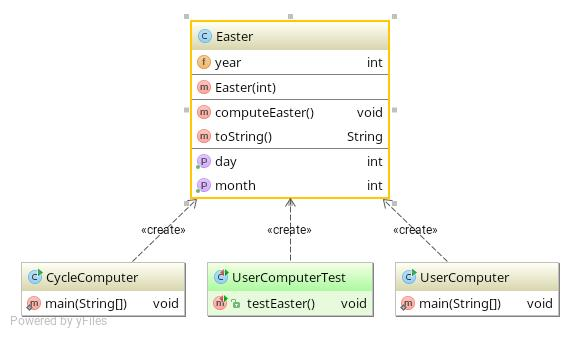
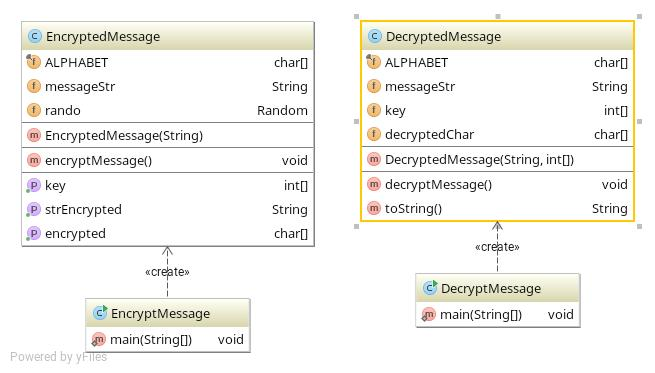
Commenting

Changed region(s): [[0.0, 0.0297, 0.9931, 0.9792]]

diff --git a/oral_exam1/S3_Computus_Hard/src/Easter.java b/oral_exam1/S3_Computus_Hard/src/Easter.java
@@ -29,7 +29,7 @@ public class Easter {
      * Uses the algorithm on Wikipedia to compute the month and day of Easter based on the year.
      */
     private void computeEaster(){
-        //
+        // This is set in stone
         int a = year % 19;
         int b = year / 100;
         int c = year % 100;
